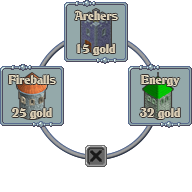
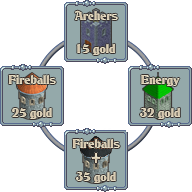
Added new tower type 'FireBall Plus'

Changed region(s): [[0.3125, 0.6562, 0.6875, 1.0]]

diff --git a/js/TowerGameStarterKit.js b/js/TowerGameStarterKit.js
@@ -102,7 +102,7 @@ function TowerGameStarterKit() {
 	///////////////////////////////////////////////
 	// debug only - turn this off when you go live!
 	///////////////////////////////////////////////
-	var debugmode = 0; // 1 for debug info and profiler, >1 for DETAILED INFO
+	var debugmode = 1; // 1 for debug info and profiler, >1 for DETAILED INFO
 	///////////////////////////////////////////////
 
 	///////////////////////////////////////////////
@@ -276,7 +276,7 @@ function TowerGameStarterKit() {
 	///////////////////////////////////////////////
 	var ms_per_gold = 1000; // how long between each new gold piece earned
 	// costs for building units
-	var buildCost = [15, 25, 32];
+	var buildCost = [15, 25, 32, 35];
 	// which unit has the play selected for building
 	var selectedBuildingStyle = 0;
 
@@ -293,7 +293,9 @@ function TowerGameStarterKit() {
 	var buildChoice2tileY = FAR_AWAY;
 	var buildChoice3tileX = FAR_AWAY;
 	var buildChoice3tileY = FAR_AWAY;
-	// where the next tower will be placed
+	var buildChoice4tileX = FAR_AWAY;
+	var buildChoice4tileY = FAR_AWAY;
+    // where the next tower will be placed
 	var buildPendingPixelX = FAR_AWAY;
 	var buildPendingPixelY = FAR_AWAY;
 	var buildPendingTileX = FAR_AWAY;
@@ -304,6 +306,7 @@ function TowerGameStarterKit() {
 	var buildMenuOverlay1 = null;
 	var buildMenuOverlay2 = null;
 	var buildMenuOverlay3 = null;
+	var buildMenuOverlay4 = null;
 	var buildMenuOverlayHeight = 50; //pixels
 	// the glowing yellow outlines on clickable items
 	var buttonHighlightImageON; // images
@@ -409,6 +412,7 @@ function TowerGameStarterKit() {
 	var WEAPON_ARROWS = 1;
 	var WEAPON_FIRE = 2;
 	var WEAPON_ENERGY = 3;
+	var WEAPON_FIRE_PLUS = 4;
 	var DAMAGETYPE_PHYSICAL = 1;
 	var DAMAGETYPE_MAGICAL = 2;
 	var DAMAGETYPE_SLOW = 3;
@@ -428,6 +432,14 @@ function TowerGameStarterKit() {
 			this.particleHit = particleFIREHIT;
 			this.soundEffectName = 'shootFire';
 			break;
+		case WEAPON_FIRE_PLUS:
+		    this.projectilenumber = particleFIRE;
+		    this.damage = 40; // three hit to kill
+		    this.damagetype = DAMAGETYPE_MAGICAL;
+		    this.particleHit = particleFIREHIT;
+		    this.soundEffectName = 'shootFire';
+		    this.shootDelay = 1500; // twice as fast as WEAPON_FIRE
+		    break;
 		case WEAPON_ENERGY:
 			this.projectilenumber = particleENERGY;
 			this.damage = 75; // two hits to kill
@@ -1470,7 +1482,17 @@ function TowerGameStarterKit() {
 						buttonHighlight[2].setImage(buttonHighlightImageOFF);
 					}
 					buildMenuOverlay3.setHeight(buildMenuOverlayHeight - (buildMenuOverlayHeight * fundingPercent));
+
+					fundingPercent = player_Gold / buildCost[3];
+					if (fundingPercent >= 1) {
+					    fundingPercent = 1;
+					    buttonHighlight[3].setImage(buttonHighlightImageON);
+					} else {
+					    buttonHighlight[3].setImage(buttonHighlightImageOFF);
+					}
+					buildMenuOverlay4.setHeight(buildMenuOverlayHeight - (buildMenuOverlayHeight * fundingPercent));
 				}
+
 
 				if (particles_enabled)
 					updateParticles();
@@ -2543,6 +2565,7 @@ function TowerGameStarterKit() {
 			towerImages[1] = chopImage(jaws.assets.get("entities.png"), 0, 32, 64, 96);
 			towerImages[2] = chopImage(jaws.assets.get("entities.png"), 64, 32, 64, 96);
 			towerImages[3] = chopImage(jaws.assets.get("entities.png"), 128, 32, 64, 96);
+			towerImages[4] = chopImage(jaws.assets.get("entities.png"), 192, 32, 64, 96);
 		}
 
 		if (team == TEAM_BAD) // then we want walking avatars
@@ -2697,16 +2720,18 @@ function TowerGameStarterKit() {
 	}
 
 	function buildMenuMove(px, py) {
-		if (!buildMenuSprite)
-			return;
-		buildMenuSprite.moveTo(px, py);
-		buildMenuOverlay1.moveTo(px, py - 40);
-		buttonHighlight[0].moveTo(px, py - 40 + 8);
-		buildMenuOverlay2.moveTo(px - 64, py + 25);
-		buttonHighlight[1].moveTo(px - 64, py + 25 + 7);
-		buildMenuOverlay3.moveTo(px + 64, py + 25);
-		buttonHighlight[2].moveTo(px + 64, py + 25 + 7);
-	}
+	    if (!buildMenuSprite)
+	        return;
+	    buildMenuSprite.moveTo(px, py);
+	    buildMenuOverlay1.moveTo(px, py - 40);
+	    buttonHighlight[0].moveTo(px, py - 40 + 8);
+	    buildMenuOverlay2.moveTo(px - 64, py + 25);
+	    buttonHighlight[1].moveTo(px - 64, py + 25 + 7);
+	    buildMenuOverlay3.moveTo(px + 64, py + 25);
+	    buttonHighlight[2].moveTo(px + 64, py + 25 + 7);
+	    buildMenuOverlay4.moveTo(px, py + 80);
+	    buttonHighlight[3].moveTo(px, py + 80 + 16);
+    }
 
 	function buildMenuOFF() {
 		if (debugmode)
@@ -2719,6 +2744,8 @@ function TowerGameStarterKit() {
 		buildChoice2tileY = FAR_AWAY;
 		buildChoice3tileX = FAR_AWAY;
 		buildChoice3tileY = FAR_AWAY;
+		buildChoice4tileX = FAR_AWAY;
+		buildChoice4tileY = FAR_AWAY;
 		buildPendingPixelX = FAR_AWAY;
 		buildPendingPixelY = FAR_AWAY;
 		buildPendingTileX = FAR_AWAY;
@@ -2796,10 +2823,15 @@ function TowerGameStarterKit() {
 			buildMenuOverlay3 = extractSprite(jaws.assets.get("gui.png"), 272, 464, 50, 50, {
 					anchor : "center_bottom"
 				});
+			buildMenuOverlay4 = extractSprite(jaws.assets.get("gui.png"), 272, 464, 50, 50, {
+			    anchor: "center_bottom"
+			});
 			game_objects.push(buildMenuOverlay1);
 			game_objects.push(buildMenuOverlay2);
 			game_objects.push(buildMenuOverlay3);
-			// the clickable buttons (a glowing yellow outline so we know we have enough money)
+			game_objects.push(buildMenuOverlay4);
+
+		    // the clickable buttons (a glowing yellow outline so we know we have enough money)
 			buttonHighlightImageON = chopImage(jaws.assets.get("gui.png"), 0, 320, 64, 64);
 			buttonHighlightImageOFF = chopImage(jaws.assets.get("gui.png"), 288, 320, 64, 64);
 			buttonHighlight[0] = new jaws.Sprite({
@@ -2814,9 +2846,14 @@ function TowerGameStarterKit() {
 					image : buttonHighlightImageON,
 					anchor : "center_bottom"
 				});
+			buttonHighlight[3] = new jaws.Sprite({
+                    image: buttonHighlightImageON,
+			        anchor: "center_bottom"
+			    });
 			game_objects.push(buttonHighlight[0]);
 			game_objects.push(buttonHighlight[1]);
 			game_objects.push(buttonHighlight[2]);
+			game_objects.push(buttonHighlight[3]);
 		}
 
 		// fixme todo: the buildChoice1tileX etc is a hack: use guiSprites action and remember pending build xy
@@ -2841,6 +2878,8 @@ function TowerGameStarterKit() {
 				buildChoice2tileY = tileY;
 				buildChoice3tileX = tileX + 1;
 				buildChoice3tileY = tileY;
+				buildChoice4tileX = tileX;
+				buildChoice4tileY = tileY + 1;
 				buildPendingPixelX = px;
 				buildPendingPixelY = py;
 				buildPendingTileX = tileX;
@@ -2870,6 +2909,9 @@ function TowerGameStarterKit() {
 			if (tileX == buildChoice3tileX && tileY == buildChoice3tileY) {
 				selectedBuildingStyle = 2;
 			}
+			if (tileX == buildChoice4tileX && tileY == buildChoice4tileY) {
+			    selectedBuildingStyle = 3;
+			}
 
 			if (selectedBuildingStyle == FAR_AWAY) {
 				if (debugmode)
@@ -2898,14 +2940,14 @@ function TowerGameStarterKit() {
 					startParticleSystem(buildPendingPixelX, buildPendingPixelY, particleBUILD);
 
 					// spawn a new tower here
-					var justBuilt = spawnEntity(buildPendingPixelX, buildPendingPixelY, selectedBuildingStyle + 1, TEAM_GOOD); // tower 1,2,3
+					var justBuilt = spawnEntity(buildPendingPixelX, buildPendingPixelY, selectedBuildingStyle + 1, TEAM_GOOD); // tower 1,2,3,4
 
 					// pay up!
 					player_Gold -= buildCost[selectedBuildingStyle];
 
 					// debug fixme todo lame - buildMenu!
 					selectedBuildingStyle++;
-					if (selectedBuildingStyle > 2)
+					if (selectedBuildingStyle > 3)
 						selectedBuildingStyle = 0;
 
 					updateGoldGUI();

diff --git a/README.md b/README.md
@@ -1,3 +1,129 @@
 # Tower Game Starter Kit - Adding A Custom Tower
 
 This is my modified source code for the Tower Game Starter Kit ([wootstudio.ca/towergamekit](wootstudio.ca/towergamekit)) that includes a custom tower type.
+
+
+## Steps
+
+### Draw new tower
+
+- Edit `game-media\entities.png` & draw new tower
+- New tower should by 64x96 and replace the  at the bottom of the image
+ ![New entities.png](game-media/entities.png)
+- That tower on the bottom is my new tower, I'm not very creative so I just edited the 2nd tower to make it more epic
+
+### Draw new build menu
+
+- Edit `game-media\buildmenu.png` & draw new tower build option
+- You'll notice it was designed for 3 towers
+- We'll need to update the build menu code accordingly (see *Update Build menu*)
+
+### Update build menu
+- Next we need to edit the code to (a) understand the new menu layout & (b) support our new tower type
+- In `TowerGameStarterKit.js:295` add a fourth `buildChoice4tileX` &Aacute; `buildChoice4tileY` (This gives a default offscreen position for the tile)
+			var buildChoice4tileY = FAR_AWAY;
+
+- In `TowerGameStarterKit.js:306` add a fourth `buildMenuOverlay` (These overlays are used to disable towers that you can't afford to build)
+
+			var buildMenuOverlay4 = null;
+
+- In `TowerGameStarterKit.js:2808` initialize the fourth `buildMenuOverlay`
+
+			buildMenuOverlay4 = extractSprite(jaws.assets.get("gui.png"), 272, 464, 50, 50, {
+			    anchor: "center_bottom"
+			});
+
+- In `TowerGameStarterKit.js:2816` store the new sprite into the `game_objects` SpriteList
+	
+	game_objects.push(buildMenuOverlay4);
+
+- In `TowerGameStarterKit.js:2830` create a clickable button (yellow highlight) 
+	
+			buttonHighlight[3] = new jaws.Sprite({
+                    image: buttonHighlightImageON,
+			        anchor: "center_bottom"
+			    });
+
+- In `TowerGameStarterKit.js:2840` store the new button sprite into the `game_objects` SpriteList
+	
+	game_objects.push(buildMenuOverlay4);
+	
+- In `TowerGameStarterKit.js:2792` initialize the fourth overlay
+
+			fundingPercent = player_Gold / buildCost[3];
+			if (fundingPercent >= 1) {
+				fundingPercent = 1;
+				buttonHighlight[3].setImage(buttonHighlightImageON);
+			} else {
+				buttonHighlight[3].setImage(buttonHighlightImageOFF);
+			}
+			buildMenuOverlay4.setHeight(buildMenuOverlayHeight - (buildMenuOverlayHeight * fundingPercent));
+
+- Since we've altered the layout of the menu (from round to a recntangle) we'll next edit the `buildMenuMove` function at `TowerGameStarterKit.js:2713`
+
+	    buildMenuOverlay4.moveTo(px, py + 40);
+	    buttonHighlight[3].moveTo(px, py + 80 + 16);
+
+- Next we make sure to hide the new (fourth) build menu option at `TowerGameStarterKit.js:2737`
+
+
+			buildChoice4tileX = FAR_AWAY;
+			buildChoice4tileY = FAR_AWAY;
+
+
+- Edit add the new tower tile (replaces the X)
+
+				buildChoice4tileX = tileX;
+				buildChoice4tileY = tileY + 1;
+
+- Update the tile click handler to understand the new tile (aka the new tower)
+
+			if (tileX == buildChoice4tileX && tileY == buildChoice4tileY) {
+			    selectedBuildingStyle = 3;
+			}
+
+
+- Fix the hack check
+	
+		if (selectedBuildingStyle > 3)
+
+
+### Register tower image
+
+- In `TowerGameStarterKit.js:2543` you'll find the code that chops up the `entities.png` file into individual images.
+- `chopImage` takes as parameters
+	- the asset (in our case `jaws.assets.get("entities.png")`)
+	- the starting X coordinate
+	- the starting Y coordinate
+	- the width
+	- the height
+- To add out image we would insert the following line of code
+	
+			towerImages[4] = chopImage(jaws.assets.get("entities.png"), 192, 32, 64, 96);
+
+
+### How much is that tower in the window?
+
+- Next step is to give your awesomesauce new tower a price
+- In `TowerGameStarterKit.js:279` you'll an array named `buildCost` with three elements, add a forth to represent the cost of your tower like so
+		
+			var buildCost = [15, 25, 32, 35];
+
+
+### Set the towers weapon info
+
+- First we record a constant for the new tower weapon type in `TowerGameStarterKit.js:414`
+
+		var WEAPON_FIRE_PLUS = 4;
+
+- In `TowerGameStarterKit.js:419` you'll find the function `GameWeapon(style)` which takes an style (offset) and returns the weapon info. We'll just use the existing info for the fire tower and make it fire faster see `this.shootDelay`
+
+			case WEAPON_FIRE_PLUS:
+				this.projectilenumber = particleFIRE;
+				this.damage = 40; // three hit to kill
+				this.damagetype = DAMAGETYPE_MAGICAL;
+				this.particleHit = particleFIREHIT;
+				this.soundEffectName = 'shootFire';
+				this.shootDelay = 1500; // twice as fast as WEAPON_FIRE
+				break;
+ 
